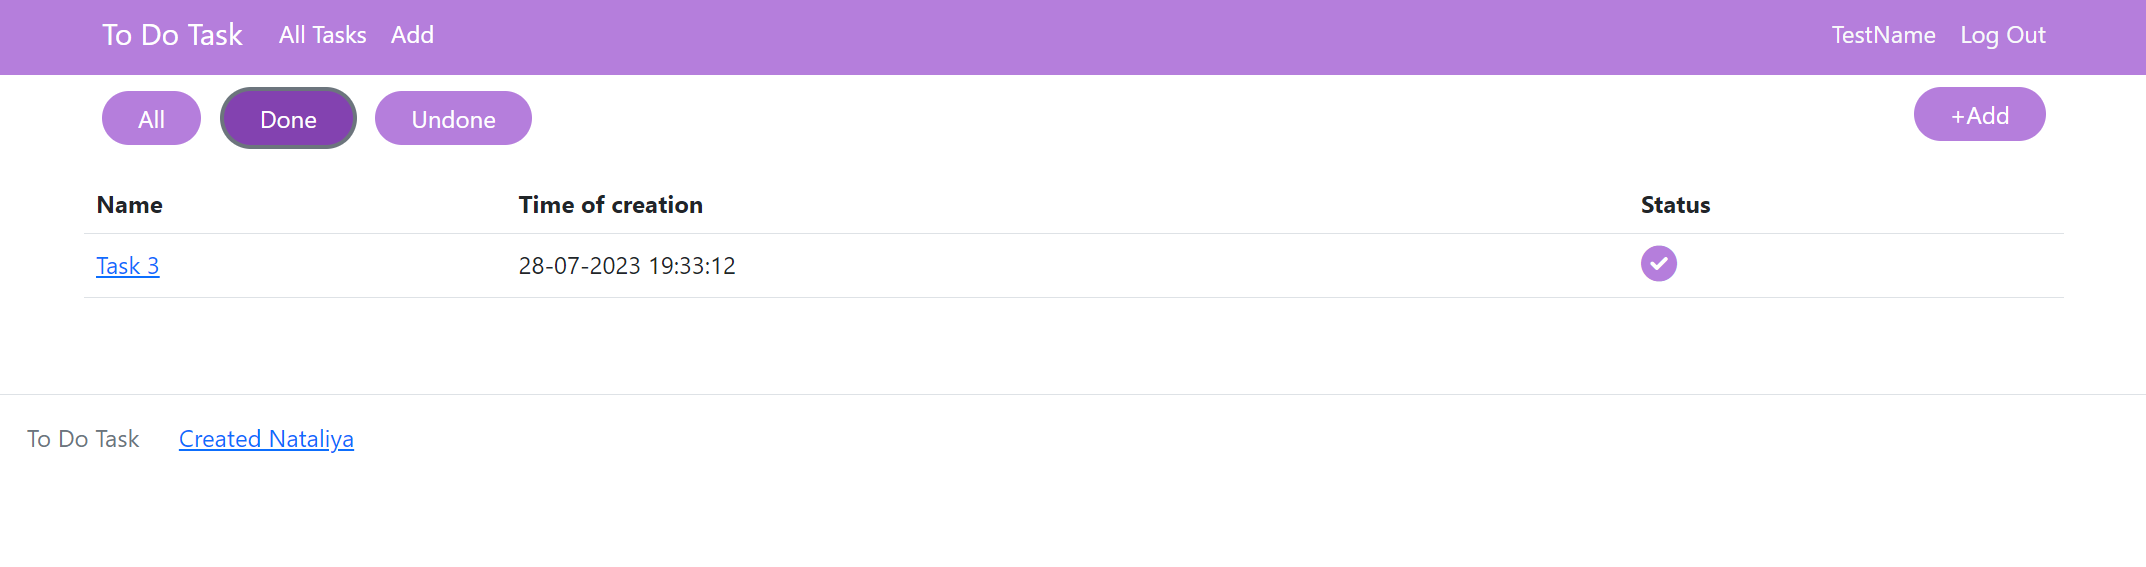
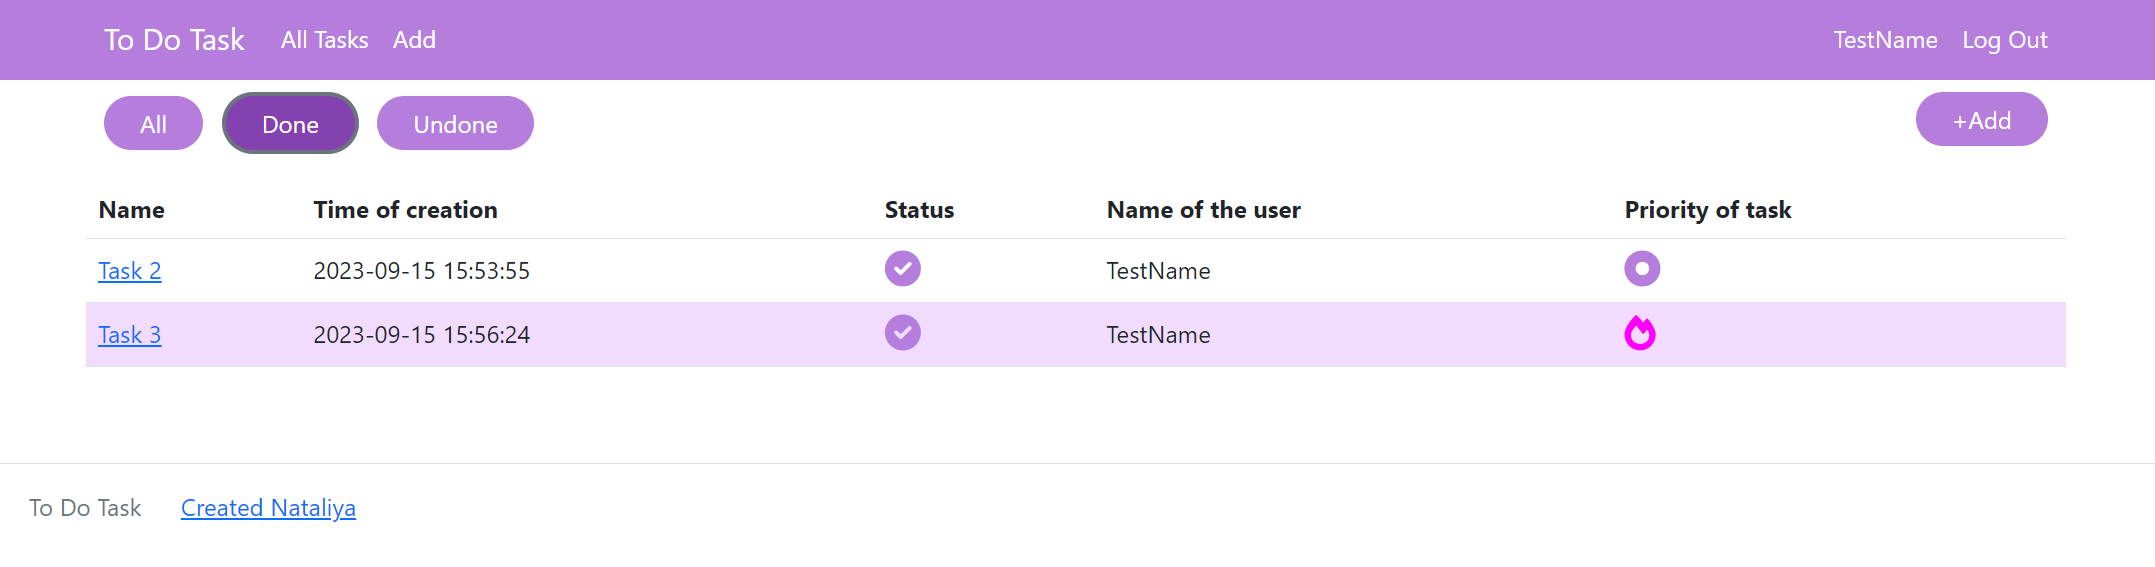
change screens of application, edit README.md

diff --git a/README.md b/README.md
@@ -9,10 +9,13 @@
 ____
 ### Project description
 
-Task storage service. 
-The service allows you to create, view description, delete a task. 
-You can change the status of a task from undone to done and otherwise. 
-You can view the list of all tasks, the list of done tasks or the list of undone tasks.
+Task storage service. The service allows you to create, view descriptions, 
+and delete tasks. You can change the task status from Canceled to Completed, etc. 
+You can select the priority of the task when creating it and then change it. 
+When creating a task, you must select at least one category (Work, Education, etc.). 
+The task creation time is displayed taking into account your time zone, which you select when creating your account.
+You can view a list of all tasks, a list of completed tasks, or a list of uncompleted tasks.
+
 The division of rights:
 1) Only authorized users can view and edit tasks.
 2) All tasks are available to any authorized user
